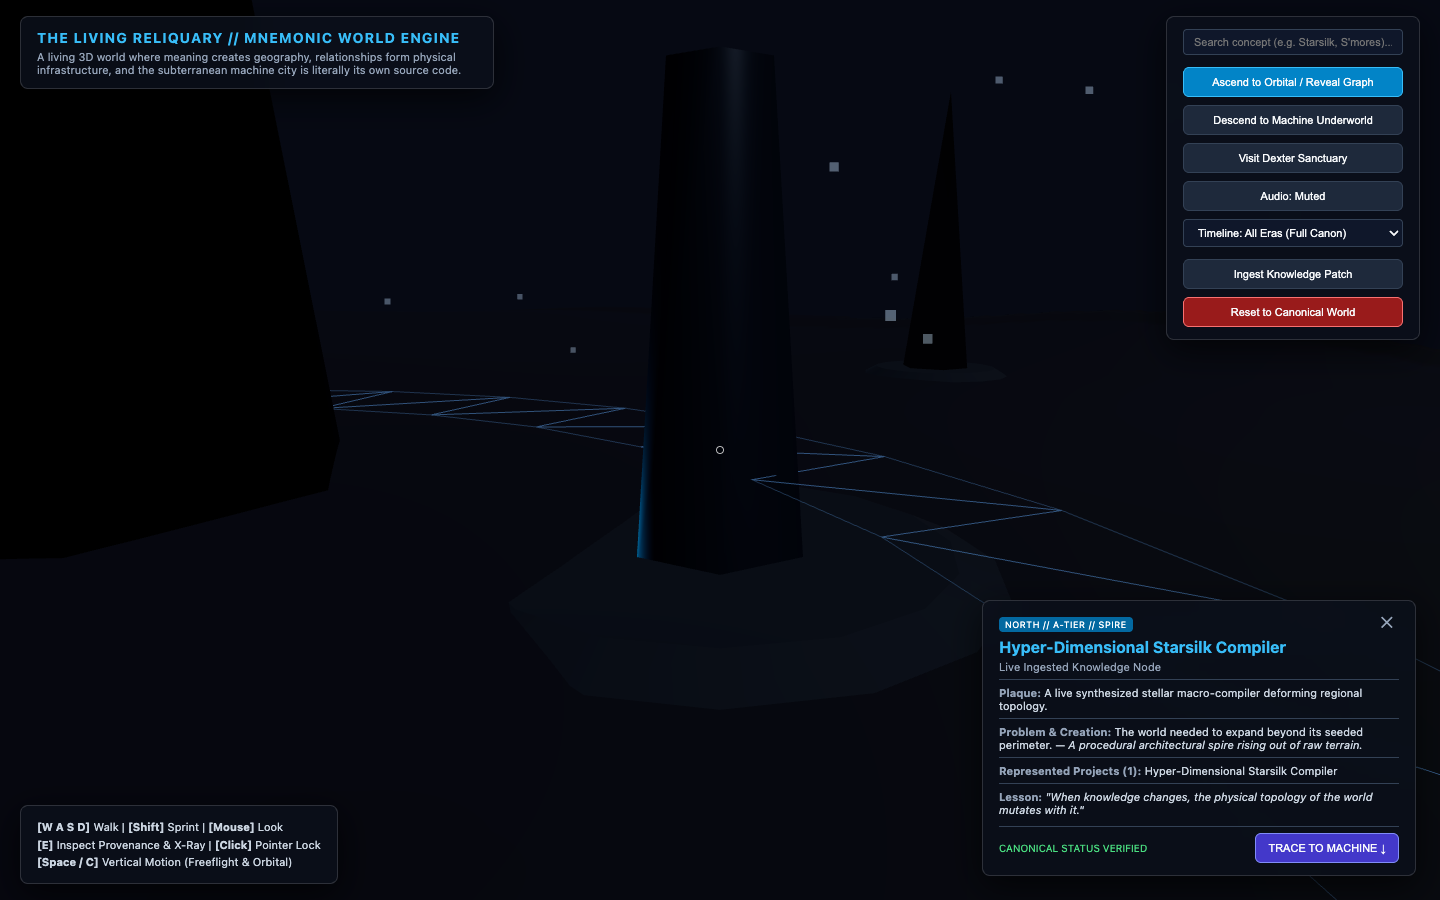
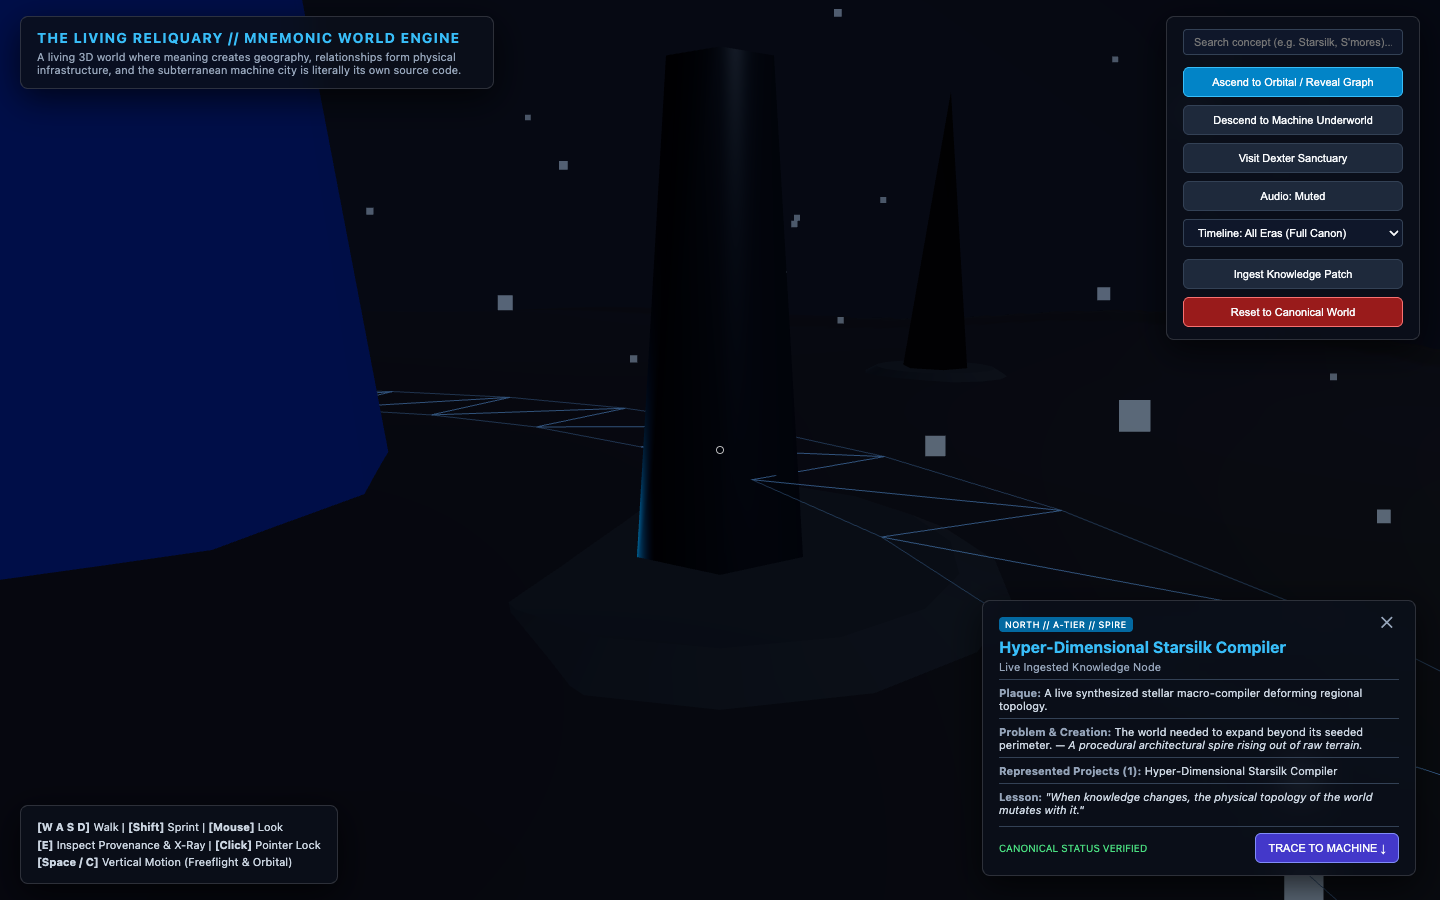
refine(loop-01): celestial skyline, causeway pylons, and descent balustrade

diff --git a/src/world/Terrain.ts b/src/world/Terrain.ts
@@ -123,50 +123,112 @@ export class Terrain {
     this.group.add(this.mesh);
   }
 
-  // 3 World-Class Megastructures
+  // 3 World-Class Megastructures with Architectural Depth & Skyline
   private buildMegastructures() {
+    // 0. Celestial Horizon Sphere / Starfield Dome (Deep sky gradient with astronomical rings)
+    const skyGeo = new THREE.SphereGeometry(380, 32, 24);
+    const skyMat = new THREE.MeshBasicMaterial({
+      color: 0x070c1a,
+      side: THREE.BackSide
+    });
+    const skyDome = new THREE.Mesh(skyGeo, skyMat);
+    this.group.add(skyDome);
+
+    // Distant Celestial Horizon Ring (Tilted orbital ring girding the world)
+    const horizonRingMat = new THREE.MeshBasicMaterial({ color: 0x1e293b, wireframe: true, transparent: true, opacity: 0.4 });
+    const horizonRing = new THREE.Mesh(new THREE.TorusGeometry(320, 2.5, 6, 64), horizonRingMat);
+    horizonRing.rotation.x = Math.PI / 4;
+    horizonRing.rotation.y = Math.PI / 6;
+    this.group.add(horizonRing);
+
     // 1. The Trans-Domain Causeway (Colossal Viaduct spanning the central chasm between South & North)
-    const causewayMat = new THREE.MeshStandardMaterial({ color: 0x1f2937, roughness: 0.7, metalness: 0.6 });
-    const causewayRoad = new THREE.Mesh(new THREE.BoxGeometry(8, 2, 70), causewayMat);
+    const causewayMat = new THREE.MeshStandardMaterial({ color: 0x1e293b, roughness: 0.6, metalness: 0.7 });
+    const causewayRoad = new THREE.Mesh(new THREE.BoxGeometry(10, 2.5, 76), causewayMat);
     causewayRoad.position.set(0, 4, 0);
     causewayRoad.receiveShadow = true;
     this.group.add(causewayRoad);
 
-    // Causeway suspension arches
-    const archMat = new THREE.MeshStandardMaterial({ color: 0x38bdf8, roughness: 0.3, metalness: 0.8 });
-    const arch = new THREE.Mesh(new THREE.TorusGeometry(32, 1, 8, 32, Math.PI), archMat);
+    // Viaduct support pylons plunging down into the chasm
+    const pylonMat = new THREE.MeshStandardMaterial({ color: 0x0f172a, roughness: 0.8, metalness: 0.8 });
+    for (const pz of [-24, 0, 24]) {
+      const pylon = new THREE.Mesh(new THREE.BoxGeometry(11, 14, 3), pylonMat);
+      pylon.position.set(0, -3, pz);
+      this.group.add(pylon);
+    }
+
+    // Causeway suspension arches & glowing anchor cables
+    const archMat = new THREE.MeshStandardMaterial({ color: 0x38bdf8, roughness: 0.2, metalness: 0.9, emissive: 0x0284c7, emissiveIntensity: 0.4 });
+    const arch = new THREE.Mesh(new THREE.TorusGeometry(36, 1.2, 8, 48, Math.PI), archMat);
     arch.position.set(0, 4, 0);
     this.group.add(arch);
 
+    // Causeway side guardrails with embedded optic runway lights
+    const railMat = new THREE.MeshStandardMaterial({ color: 0x334155, roughness: 0.5, metalness: 0.6 });
+    const lightMat = new THREE.MeshBasicMaterial({ color: 0x38bdf8 });
+    for (const rx of [-4.8, 4.8]) {
+      const rail = new THREE.Mesh(new THREE.BoxGeometry(0.3, 1.2, 76), railMat);
+      rail.position.set(rx, 5.2, 0);
+      this.group.add(rail);
+
+      for (let rz = -35; rz <= 35; rz += 7) {
+        const beacon = new THREE.Mesh(new THREE.CylinderGeometry(0.18, 0.18, 1.4, 8), lightMat);
+        beacon.position.set(rx, 5.2, rz);
+        this.group.add(beacon);
+      }
+    }
+
     // 2. The Celestial Loom Spire (Reaches 95 meters into the north sky)
-    const spireMat = new THREE.MeshStandardMaterial({ color: 0x0a1026, roughness: 0.2, metalness: 0.9 });
-    const spire = new THREE.Mesh(new THREE.ConeGeometry(8, 95, 8), spireMat);
-    spire.position.set(0, 52, -105);
+    const spireMat = new THREE.MeshStandardMaterial({
+      color: 0x090e1f,
+      roughness: 0.15,
+      metalness: 0.95,
+      emissive: 0x1e3a8a,
+      emissiveIntensity: 0.3
+    });
+    const spire = new THREE.Mesh(new THREE.ConeGeometry(9, 105, 12), spireMat);
+    spire.position.set(0, 56, -105);
     this.group.add(spire);
 
-    // Floating orbital torus ring hanging around the celestial spire
-    const ringMat = new THREE.MeshBasicMaterial({ color: 0x60a5fa, wireframe: true });
-    const celestialRing = new THREE.Mesh(new THREE.TorusGeometry(18, 0.6, 8, 32), ringMat);
+    // Spire concentric energy lattices
+    const latticeMat = new THREE.MeshBasicMaterial({ color: 0x60a5fa, wireframe: true, transparent: true, opacity: 0.65 });
+    for (let h = 25; h <= 85; h += 20) {
+      const radius = (1 - (h - 10) / 105) * 16;
+      const latticeRing = new THREE.Mesh(new THREE.TorusGeometry(radius, 0.4, 6, 32), latticeMat);
+      latticeRing.position.set(0, h, -105);
+      latticeRing.rotation.x = Math.PI / 2;
+      this.group.add(latticeRing);
+    }
+
+    // Floating orbital torus rings hanging around the celestial spire
+    const ringMat = new THREE.MeshBasicMaterial({ color: 0x93c5fd, wireframe: true });
+    const celestialRing = new THREE.Mesh(new THREE.TorusGeometry(22, 0.8, 8, 36), ringMat);
     celestialRing.rotation.x = Math.PI / 3;
-    celestialRing.position.set(0, 75, -105);
+    celestialRing.rotation.y = Math.PI / 5;
+    celestialRing.position.set(0, 80, -105);
     this.group.add(celestialRing);
 
-    // 3. The Grand Descent Shaft Aperture (Massive ring structure at (0, 0) descending to Machine Layer)
-    const shaftRingMat = new THREE.MeshStandardMaterial({ color: 0x111827, roughness: 0.5, metalness: 0.8 });
-    const shaftRing = new THREE.Mesh(new THREE.TorusGeometry(12, 1.8, 8, 32), shaftRingMat);
+    // 3. The Grand Descent Shaft Aperture (Colossal chasm ring at (0, 0) descending to Machine Layer)
+    const shaftRingMat = new THREE.MeshStandardMaterial({ color: 0x0f172a, roughness: 0.4, metalness: 0.9 });
+    const shaftRing = new THREE.Mesh(new THREE.TorusGeometry(12, 2.2, 8, 36), shaftRingMat);
     shaftRing.rotation.x = Math.PI / 2;
     shaftRing.position.set(0, 1.5, 0);
     this.group.add(shaftRing);
 
+    // Protective energy collar framing the descent
+    const collarMat = new THREE.MeshBasicMaterial({ color: 0x10b981, wireframe: true, transparent: true, opacity: 0.5 });
+    const collar = new THREE.Mesh(new THREE.CylinderGeometry(11.8, 11.8, 4, 24, 1, true), collarMat);
+    collar.position.set(0, 0, 0);
+    this.group.add(collar);
+
     // Spiral descent staircase stepping down into the machine city
-    const stepMat = new THREE.MeshStandardMaterial({ color: 0x00e676, roughness: 0.4, metalness: 0.7 });
+    const stepMat = new THREE.MeshStandardMaterial({ color: 0x10b981, roughness: 0.3, metalness: 0.8, emissive: 0x064e3b, emissiveIntensity: 0.6 });
     for (let i = 0; i < 30; i++) {
       const angle = (i / 30) * Math.PI * 4;
-      const r = 9;
+      const r = 9.2;
       const x = Math.cos(angle) * r;
       const z = Math.sin(angle) * r;
       const y = 1.0 - (i / 30) * 38;
-      const step = new THREE.Mesh(new THREE.BoxGeometry(2.5, 0.4, 1.5), stepMat);
+      const step = new THREE.Mesh(new THREE.BoxGeometry(2.8, 0.45, 1.6), stepMat);
       step.position.set(x, y, z);
       step.rotation.y = -angle;
       this.group.add(step);
